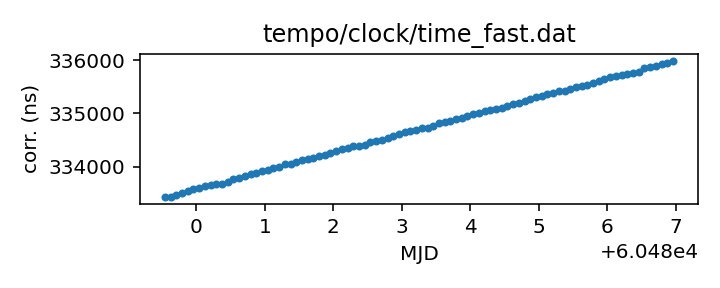
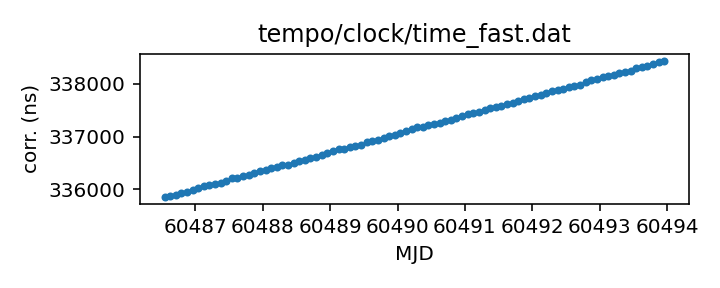
Routine gh-pages update from Github action Fri Jul  5 20:30:38 UTC 2024

diff --git a/status.md b/status.md
@@ -13,18 +13,18 @@ name of each clock file links to a page with more details.
 
 | Name | File | Corrections start | Corrections end | Last check date | Last check result 
 |:--- |:--- | --- | --- | --- |:--- 
-| [GPS to UTC](T2runtime/clock/gps2utc.clk.html) | `T2runtime/clock/gps2utc.clk` | 1993-01-01 MJD 48988.0 | 2024-04-29 MJD 60429.0 | 2024-07-04 | Unchanged 
-| [GPS to UTC (Combined Clock)](T2runtime/clock/gps2utc_cc.clk.html) | `T2runtime/clock/gps2utc_cc.clk` | 1993-01-01 MJD 48988.0 | 2024-04-29 MJD 60429.0 | 2024-07-04 | Unchanged 
-| [GPS to UTC (Corrected)](T2runtime/clock/gps2utc_c0p.clk.html) | `T2runtime/clock/gps2utc_c0p.clk` | 2010-12-29 MJD 55559.0 | 2024-04-29 MJD 60429.0 | 2024-07-04 | Unchanged 
-| [GBT](tempo/clock/time_gbt.dat.html) | `tempo/clock/time_gbt.dat` | 2000-12-31 MJD 51909.5 | 2024-05-18 MJD 60448.5 | 2024-07-04 | **Validation failed** 
+| [GPS to UTC](T2runtime/clock/gps2utc.clk.html) | `T2runtime/clock/gps2utc.clk` | 1993-01-01 MJD 48988.0 | 2024-04-29 MJD 60429.0 | 2024-07-05 | Unchanged 
+| [GPS to UTC (Combined Clock)](T2runtime/clock/gps2utc_cc.clk.html) | `T2runtime/clock/gps2utc_cc.clk` | 1993-01-01 MJD 48988.0 | 2024-04-29 MJD 60429.0 | 2024-07-05 | Unchanged 
+| [GPS to UTC (Corrected)](T2runtime/clock/gps2utc_c0p.clk.html) | `T2runtime/clock/gps2utc_c0p.clk` | 2010-12-29 MJD 55559.0 | 2024-04-29 MJD 60429.0 | 2024-07-05 | Unchanged 
+| [GBT](tempo/clock/time_gbt.dat.html) | `tempo/clock/time_gbt.dat` | 2000-12-31 MJD 51909.5 | 2024-05-18 MJD 60448.5 | 2024-07-05 | **Validation failed** 
 | [GBT (TEMPO2 converted from TEMPO)](T2runtime/clock/gbt2gps.clk.html) | `T2runtime/clock/gbt2gps.clk` | 2000-12-31 MJD 51909.5 | 2024-05-18 MJD 60448.5 | 2024-05-19 | Updated 
-| [Jodrell Bank](T2runtime/clock/jb2gps.clk.html) | `T2runtime/clock/jb2gps.clk` | 2006-10-13 MJD 54021.4 | 2023-12-04 MJD 60282.0 | 2024-06-28 | Unchanged 
-| [Jodrell Bank Roach](T2runtime/clock/jbroach2jb.clk.html) | `T2runtime/clock/jbroach2jb.clk` | 2006-10-13 MJD 54021.4 | 2018-03-20 MJD 58197.6 | 2024-06-28 | Unchanged 
-| [Jodrell Bank DFB](T2runtime/clock/jbdfb2jb.clk.html) | `T2runtime/clock/jbdfb2jb.clk` | 2006-10-13 MJD 54021.4 | 2017-05-11 MJD 57884.0 | 2024-06-28 | Unchanged 
-| [Meerkat (observatory)](T2runtime/clock/mk2utc_observatory.clk.html) | `T2runtime/clock/mk2utc_observatory.clk` | 2019-01-01 MJD 58484.0 | 2024-04-24 MJD 60425.0 | 2024-06-28 | **Failed to download** 
-| [Leap seconds](tempo/clock/leap.sec.html) | `tempo/clock/leap.sec` | 1972-07-01 MJD 41499.0 | 2017-01-01 MJD 57754.0 | 2024-07-04 | Unchanged 
-| [UT1 table](tempo/clock/ut1.dat.html) | `tempo/clock/ut1.dat` | 1973-01-02 MJD 41684.0 | 2025-07-05 MJD 60861.0 | 2024-07-04 | Unchanged 
-| [UT1 table](T2runtime/clock/ut1.dat.html) | `T2runtime/clock/ut1.dat` | 1973-01-02 MJD 41684.0 | 2025-07-05 MJD 60861.0 | 2024-07-04 | Unchanged 
+| [Jodrell Bank](T2runtime/clock/jb2gps.clk.html) | `T2runtime/clock/jb2gps.clk` | 2006-10-13 MJD 54021.4 | 2023-12-04 MJD 60282.0 | 2024-07-05 | Unchanged 
+| [Jodrell Bank Roach](T2runtime/clock/jbroach2jb.clk.html) | `T2runtime/clock/jbroach2jb.clk` | 2006-10-13 MJD 54021.4 | 2018-03-20 MJD 58197.6 | 2024-07-05 | Unchanged 
+| [Jodrell Bank DFB](T2runtime/clock/jbdfb2jb.clk.html) | `T2runtime/clock/jbdfb2jb.clk` | 2006-10-13 MJD 54021.4 | 2017-05-11 MJD 57884.0 | 2024-07-05 | Unchanged 
+| [Meerkat (observatory)](T2runtime/clock/mk2utc_observatory.clk.html) | `T2runtime/clock/mk2utc_observatory.clk` | 2019-01-01 MJD 58484.0 | 2024-04-24 MJD 60425.0 | 2024-07-05 | Unchanged 
+| [Leap seconds](tempo/clock/leap.sec.html) | `tempo/clock/leap.sec` | 1972-07-01 MJD 41499.0 | 2017-01-01 MJD 57754.0 | 2024-07-05 | Unchanged 
+| [UT1 table](tempo/clock/ut1.dat.html) | `tempo/clock/ut1.dat` | 1973-01-02 MJD 41684.0 | 2025-07-12 MJD 60868.0 | 2024-07-05 | Updated 
+| [UT1 table](T2runtime/clock/ut1.dat.html) | `T2runtime/clock/ut1.dat` | 1973-01-02 MJD 41684.0 | 2025-07-12 MJD 60868.0 | 2024-07-05 | Updated 
 
 
 
@@ -67,26 +67,26 @@ name of each clock file links to a page with more details.
 
 | Name | File | Corrections start | Corrections end | Last check date | Last check result 
 |:--- |:--- | --- | --- | --- |:--- 
-| [GPS to UTC (TEMPO2)](T2runtime/clock/gps2utc_tempo2.clk.html) | `T2runtime/clock/gps2utc_tempo2.clk` | 1996-03-27 MJD 50169.0 | 2022-10-27 MJD 59879.0 | 2024-06-28 | **Failed to download** 
-| [GBT (TEMPO2)](T2runtime/clock/gbt2gps_tempo2.clk.html) | `T2runtime/clock/gbt2gps_tempo2.clk` | 2000-12-31 MJD 51909.5 | 2020-02-25 MJD 58904.5 | 2024-06-28 | Unchanged 
-| [Jodrell Bank (TEMPO)](tempo/clock/time_jb.dat.html) | `tempo/clock/time_jb.dat` | 2006-10-13 MJD 54021.4 | 2019-05-13 MJD 58616.2 | 2024-06-28 | Unchanged 
-| [VLA](tempo/clock/time_vla.dat.html) | `tempo/clock/time_vla.dat` | 1990-10-27 MJD 48191.2 | 2021-03-07 MJD 59280.5 | 2024-06-28 | Unchanged 
-| [VLA (TEMPO2)](T2runtime/clock/vla2gps.clk.html) | `T2runtime/clock/vla2gps.clk` | 2015-02-01 MJD 57054.6 | 2021-03-07 MJD 59280.5 | 2024-06-28 | Unchanged 
-| [VLA to NIST](T2runtime/clock/vla2nist.clk.html) | `T2runtime/clock/vla2nist.clk` | 1990-10-27 MJD 48191.2 | 1993-11-13 MJD 49304.0 | 2024-06-28 | Unchanged 
-| [FAST](tempo/clock/time_fast.dat.html) | `tempo/clock/time_fast.dat` | 2017-07-27 MJD 57961.0 | 2024-06-25 MJD 60487.0 | 2024-06-28 | Updated 
-| [WSRT](T2runtime/clock/wsrt2gps.clk.html) | `T2runtime/clock/wsrt2gps.clk` | 1999-01-01 MJD 51179.5 | 2015-06-29 MJD 57202.1 | 2024-06-28 | Unchanged 
-| [WSRT (TEMPO)](tempo/clock/time_wsrt.dat.html) | `tempo/clock/time_wsrt.dat` | 1987-07-24 MJD 47000.0 | 2007-12-24 MJD 54458.0 | 2024-06-28 | **Validation failed** 
-| [Parkes](T2runtime/clock/pks2gps.clk.html) | `T2runtime/clock/pks2gps.clk` | 1858-11-17 MJD 0.0 | 2024-04-30 MJD 60430.1 | 2024-06-28 | Unchanged 
-| [Parkes (TEMPO)](tempo/clock/time_pks.dat.html) | `tempo/clock/time_pks.dat` | 1979-05-07 MJD 44000.0 | 2011-07-03 MJD 55745.8 | 2024-06-28 | **Validation failed** 
-| [SRT](T2runtime/clock/srt2gps.clk.html) | `T2runtime/clock/srt2gps.clk` | 2013-03-20 MJD 56371.0 | 2019-12-11 MJD 58828.0 | 2024-06-28 | Unchanged 
-| [Effelsberg](T2runtime/clock/eff2gps.clk.html) | `T2runtime/clock/eff2gps.clk` | 1993-11-29 MJD 49320.0 | 2015-06-22 MJD 57195.5 | 2024-06-28 | Unchanged 
-| [Effelsberg Asterix/PSRix](T2runtime/clock/effix2gps.clk.html) | `T2runtime/clock/effix2gps.clk` | 2011-01-01 MJD 55562.5 | 2021-03-21 MJD 59294.5 | 2024-06-28 | Unchanged 
-| [LEAP](T2runtime/clock/leap2effix.clk.html) | `T2runtime/clock/leap2effix.clk` | 2012-10-29 MJD 56230.0 | 2014-03-04 MJD 56720.0 | 2024-06-28 | Unchanged 
-| [NUPPI](tempo/clock/time_nuppi.dat.html) | `tempo/clock/time_nuppi.dat` | 2005-03-07 MJD 53436.0 | 2015-11-08 MJD 57334.6 | 2024-06-28 | Unchanged 
-| [Meerkat (TEMPO2)](T2runtime/clock/mk2utc.clk.html) | `T2runtime/clock/mk2utc.clk` | 2019-01-01 MJD 58484.0 | 2023-10-18 MJD 60235.9 | 2024-06-28 | Unchanged 
-| [MOST](T2runtime/clock/mo2gps.clk.html) | `T2runtime/clock/mo2gps.clk` | 2003-12-27 MJD 53000.0 | 2018-09-06 MJD 58367.0 | 2024-06-28 | Unchanged 
-| [Nancay to obspm](T2runtime/clock/ncyobs2obspm.clk.html) | `T2runtime/clock/ncyobs2obspm.clk` | 1988-05-18 MJD 47299.6 | 2023-10-27 MJD 60244.0 | 2024-06-28 | Unchanged 
-| [obspm](T2runtime/clock/obspm2gps.clk.html) | `T2runtime/clock/obspm2gps.clk` | 2003-12-01 MJD 52974.0 | 2023-10-27 MJD 60244.0 | 2024-06-28 | Unchanged 
+| [GPS to UTC (TEMPO2)](T2runtime/clock/gps2utc_tempo2.clk.html) | `T2runtime/clock/gps2utc_tempo2.clk` | 1996-03-27 MJD 50169.0 | 2022-10-27 MJD 59879.0 | 2024-07-05 | **Failed to download** 
+| [GBT (TEMPO2)](T2runtime/clock/gbt2gps_tempo2.clk.html) | `T2runtime/clock/gbt2gps_tempo2.clk` | 2000-12-31 MJD 51909.5 | 2020-02-25 MJD 58904.5 | 2024-07-05 | Unchanged 
+| [Jodrell Bank (TEMPO)](tempo/clock/time_jb.dat.html) | `tempo/clock/time_jb.dat` | 2006-10-13 MJD 54021.4 | 2019-05-13 MJD 58616.2 | 2024-07-05 | Unchanged 
+| [VLA](tempo/clock/time_vla.dat.html) | `tempo/clock/time_vla.dat` | 1990-10-27 MJD 48191.2 | 2021-03-07 MJD 59280.5 | 2024-07-05 | Unchanged 
+| [VLA (TEMPO2)](T2runtime/clock/vla2gps.clk.html) | `T2runtime/clock/vla2gps.clk` | 2015-02-01 MJD 57054.6 | 2021-03-07 MJD 59280.5 | 2024-07-05 | Unchanged 
+| [VLA to NIST](T2runtime/clock/vla2nist.clk.html) | `T2runtime/clock/vla2nist.clk` | 1990-10-27 MJD 48191.2 | 1993-11-13 MJD 49304.0 | 2024-07-05 | Unchanged 
+| [FAST](tempo/clock/time_fast.dat.html) | `tempo/clock/time_fast.dat` | 2017-07-27 MJD 57961.0 | 2024-07-02 MJD 60494.0 | 2024-07-05 | Updated 
+| [WSRT](T2runtime/clock/wsrt2gps.clk.html) | `T2runtime/clock/wsrt2gps.clk` | 1999-01-01 MJD 51179.5 | 2015-06-29 MJD 57202.1 | 2024-07-05 | Unchanged 
+| [WSRT (TEMPO)](tempo/clock/time_wsrt.dat.html) | `tempo/clock/time_wsrt.dat` | 1987-07-24 MJD 47000.0 | 2007-12-24 MJD 54458.0 | 2024-07-05 | **Validation failed** 
+| [Parkes](T2runtime/clock/pks2gps.clk.html) | `T2runtime/clock/pks2gps.clk` | 1858-11-17 MJD 0.0 | 2024-04-30 MJD 60430.1 | 2024-07-05 | Unchanged 
+| [Parkes (TEMPO)](tempo/clock/time_pks.dat.html) | `tempo/clock/time_pks.dat` | 1979-05-07 MJD 44000.0 | 2011-07-03 MJD 55745.8 | 2024-07-05 | **Validation failed** 
+| [SRT](T2runtime/clock/srt2gps.clk.html) | `T2runtime/clock/srt2gps.clk` | 2013-03-20 MJD 56371.0 | 2019-12-11 MJD 58828.0 | 2024-07-05 | Unchanged 
+| [Effelsberg](T2runtime/clock/eff2gps.clk.html) | `T2runtime/clock/eff2gps.clk` | 1993-11-29 MJD 49320.0 | 2015-06-22 MJD 57195.5 | 2024-07-05 | Unchanged 
+| [Effelsberg Asterix/PSRix](T2runtime/clock/effix2gps.clk.html) | `T2runtime/clock/effix2gps.clk` | 2011-01-01 MJD 55562.5 | 2021-03-21 MJD 59294.5 | 2024-07-05 | Unchanged 
+| [LEAP](T2runtime/clock/leap2effix.clk.html) | `T2runtime/clock/leap2effix.clk` | 2012-10-29 MJD 56230.0 | 2014-03-04 MJD 56720.0 | 2024-07-05 | Unchanged 
+| [NUPPI](tempo/clock/time_nuppi.dat.html) | `tempo/clock/time_nuppi.dat` | 2005-03-07 MJD 53436.0 | 2015-11-08 MJD 57334.6 | 2024-07-05 | Unchanged 
+| [Meerkat (TEMPO2)](T2runtime/clock/mk2utc.clk.html) | `T2runtime/clock/mk2utc.clk` | 2019-01-01 MJD 58484.0 | 2023-10-18 MJD 60235.9 | 2024-07-05 | Unchanged 
+| [MOST](T2runtime/clock/mo2gps.clk.html) | `T2runtime/clock/mo2gps.clk` | 2003-12-27 MJD 53000.0 | 2018-09-06 MJD 58367.0 | 2024-07-05 | Unchanged 
+| [Nancay to obspm](T2runtime/clock/ncyobs2obspm.clk.html) | `T2runtime/clock/ncyobs2obspm.clk` | 1988-05-18 MJD 47299.6 | 2023-10-27 MJD 60244.0 | 2024-07-05 | Unchanged 
+| [obspm](T2runtime/clock/obspm2gps.clk.html) | `T2runtime/clock/obspm2gps.clk` | 2003-12-01 MJD 52974.0 | 2023-10-27 MJD 60244.0 | 2024-07-05 | Unchanged 
 
 
 ### Further information:

diff --git a/tempo/clock/time_pks.dat.md b/tempo/clock/time_pks.dat.md
@@ -20,12 +20,11 @@ telescopes in the same file, distinguished only by observatory code.
 | Clock file start | 1979-05-07 MJD 44000.0 |
 | Clock file end | 2011-07-03 MJD 55745.8 |
 | Update interval (days) | 7 |
-| Last update attempt | 2024-06-28 |
+| Last update attempt | 2024-07-05 |
 | Last update result | Validation failed |
 
 Log entries from the last few update attempts:
 ```
-2024-04-11 20:29:34.676 - Validation failed: Unable to read new version of tempo/clock/time_pks.dat: Clock file /tmp/astropy-download-1801-4xgnkiau appears to be out of order: 49959.0 > 49958.0
 2024-04-18 20:29:38.673 - Validation failed: Unable to read new version of tempo/clock/time_pks.dat: Clock file /tmp/astropy-download-1796-c9s0ts7i appears to be out of order: 49959.0 > 49958.0
 2024-05-10 20:29:42.293 - Validation failed: Unable to read new version of tempo/clock/time_pks.dat: Clock file /tmp/astropy-download-1806-pnu0rn0y appears to be out of order: 49959.0 > 49958.0
 2024-05-17 20:29:45.220 - Validation failed: Unable to read new version of tempo/clock/time_pks.dat: Clock file /tmp/astropy-download-1787-teivf2pi appears to be out of order: 49959.0 > 49958.0
@@ -35,6 +34,7 @@ Log entries from the last few update attempts:
 2024-06-14 20:29:51.890 - Validation failed: Unable to read new version of tempo/clock/time_pks.dat: Clock file /tmp/astropy-download-1801-tisulijr appears to be out of order: 49959.0 > 49958.0
 2024-06-21 20:29:55.211 - Validation failed: Unable to read new version of tempo/clock/time_pks.dat: Clock file /tmp/astropy-download-1818-a0_m0tm6 appears to be out of order: 49959.0 > 49958.0
 2024-06-28 20:29:43.204 - Validation failed: Unable to read new version of tempo/clock/time_pks.dat: Clock file /tmp/astropy-download-1891-89y18t2_ appears to be out of order: 49959.0 > 49958.0
+2024-07-05 20:29:58.943 - Validation failed: Unable to read new version of tempo/clock/time_pks.dat: Clock file /tmp/astropy-download-1810-trqtm1kr appears to be out of order: 49959.0 > 49958.0
 ```
 [Full log](https://raw.githubusercontent.com/ipta/pulsar-clock-corrections/main/log/tempo/clock/time_pks.dat.log)
 

diff --git a/tempo/clock/time_wsrt.dat.md b/tempo/clock/time_wsrt.dat.md
@@ -20,12 +20,11 @@ should be the same information.
 | Clock file start | 1987-07-24 MJD 47000.0 |
 | Clock file end | 2007-12-24 MJD 54458.0 |
 | Update interval (days) | 7 |
-| Last update attempt | 2024-06-28 |
+| Last update attempt | 2024-07-05 |
 | Last update result | Validation failed |
 
 Log entries from the last few update attempts:
 ```
-2024-04-11 20:29:29.782 - Validation failed: Unable to read new version of tempo/clock/time_wsrt.dat: Clock file /tmp/astropy-download-1801-eyxtozmn appears to be out of order: 53000.05 > 53000.0
 2024-04-18 20:29:33.818 - Validation failed: Unable to read new version of tempo/clock/time_wsrt.dat: Clock file /tmp/astropy-download-1796-uswo2pn9 appears to be out of order: 53000.05 > 53000.0
 2024-05-10 20:29:38.436 - Validation failed: Unable to read new version of tempo/clock/time_wsrt.dat: Clock file /tmp/astropy-download-1806-0gvmq99j appears to be out of order: 53000.05 > 53000.0
 2024-05-17 20:29:41.596 - Validation failed: Unable to read new version of tempo/clock/time_wsrt.dat: Clock file /tmp/astropy-download-1787-h7p7w40s appears to be out of order: 53000.05 > 53000.0
@@ -35,6 +34,7 @@ Log entries from the last few update attempts:
 2024-06-14 20:29:48.546 - Validation failed: Unable to read new version of tempo/clock/time_wsrt.dat: Clock file /tmp/astropy-download-1801-gxdcwqox appears to be out of order: 53000.05 > 53000.0
 2024-06-21 20:29:50.513 - Validation failed: Unable to read new version of tempo/clock/time_wsrt.dat: Clock file /tmp/astropy-download-1818-gztup1ud appears to be out of order: 53000.05 > 53000.0
 2024-06-28 20:29:38.470 - Validation failed: Unable to read new version of tempo/clock/time_wsrt.dat: Clock file /tmp/astropy-download-1891-katqx_gz appears to be out of order: 53000.05 > 53000.0
+2024-07-05 20:29:55.289 - Validation failed: Unable to read new version of tempo/clock/time_wsrt.dat: Clock file /tmp/astropy-download-1810-6x_oo0y2 appears to be out of order: 53000.05 > 53000.0
 ```
 [Full log](https://raw.githubusercontent.com/ipta/pulsar-clock-corrections/main/log/tempo/clock/time_wsrt.dat.log)
 

diff --git a/tempo/clock/time_gbt.dat.md b/tempo/clock/time_gbt.dat.md
@@ -33,12 +33,11 @@ If questions arise, contact Ryan S. Lynch <rlynch@nrao.edu>.
 | Clock file start | 2000-12-31 MJD 51909.5 |
 | Clock file end | 2024-05-18 MJD 60448.5 |
 | Update interval (days) | 1 |
-| Last update attempt | 2024-07-04 |
+| Last update attempt | 2024-07-05 |
 | Last update result | Validation failed |
 
 Log entries from the last few update attempts:
 ```
-2024-06-25 20:29:28.281 - Validation failed: New version of tempo/clock/time_gbt.dat clock corrections differ from old version where they overlap in 11 places
 2024-06-26 20:31:39.903 - Validation failed: New version of tempo/clock/time_gbt.dat clock corrections differ from old version where they overlap in 11 places
 2024-06-27 20:29:38.289 - Validation failed: New version of tempo/clock/time_gbt.dat clock corrections differ from old version where they overlap in 11 places
 2024-06-28 20:29:34.510 - Validation failed: New version of tempo/clock/time_gbt.dat clock corrections differ from old version where they overlap in 11 places
@@ -48,6 +47,7 @@ Log entries from the last few update attempts:
 2024-07-02 20:32:21.528 - Validation failed: New version of tempo/clock/time_gbt.dat clock corrections differ from old version where they overlap in 11 places
 2024-07-03 20:29:25.526 - Validation failed: New version of tempo/clock/time_gbt.dat clock corrections differ from old version where they overlap in 11 places
 2024-07-04 20:29:50.807 - Validation failed: New version of tempo/clock/time_gbt.dat clock corrections differ from old version where they overlap in 11 places
+2024-07-05 20:29:50.516 - Validation failed: New version of tempo/clock/time_gbt.dat clock corrections differ from old version where they overlap in 11 places
 ```
 [Full log](https://raw.githubusercontent.com/ipta/pulsar-clock-corrections/main/log/tempo/clock/time_gbt.dat.log)
 

diff --git a/T2runtime/clock/gps2utc_tempo2.clk.md b/T2runtime/clock/gps2utc_tempo2.clk.md
@@ -27,12 +27,11 @@ are from the column C0').
 | Clock file start | 1996-03-27 MJD 50169.0 |
 | Clock file end | 2022-10-27 MJD 59879.0 |
 | Update interval (days) | 7 |
-| Last update attempt | 2024-06-28 |
+| Last update attempt | 2024-07-05 |
 | Last update result | Failed to download |
 
 Log entries from the last few update attempts:
 ```
-2024-04-11 20:29:07.692 - Unchanged
 2024-04-18 20:29:11.360 - Unchanged
 2024-05-10 20:29:02.475 - Failed to download: HTTP Error 404: Not Found
 2024-05-17 20:29:05.507 - Failed to download: HTTP Error 404: Not Found
@@ -42,6 +41,7 @@ Log entries from the last few update attempts:
 2024-06-14 20:29:11.087 - Failed to download: HTTP Error 404: Not Found
 2024-06-21 20:29:27.909 - Failed to download: HTTP Error 404: Not Found
 2024-06-28 20:29:11.138 - Failed to download: HTTP Error 404: Not Found
+2024-07-05 20:29:14.464 - Failed to download: HTTP Error 404: Not Found
 ```
 [Full log](https://raw.githubusercontent.com/ipta/pulsar-clock-corrections/main/log/T2runtime/clock/gps2utc_tempo2.clk.log)
 

diff --git a/T2runtime/clock/mk2utc_observatory.clk.md b/T2runtime/clock/mk2utc_observatory.clk.md
@@ -21,12 +21,11 @@ If questions arise, contact Ryan Shannon <rshannon@swin.edu.au>
 | Clock file start | 2019-01-01 MJD 58484.0 |
 | Clock file end | 2024-04-24 MJD 60425.0 |
 | Update interval (days) | 7 |
-| Last update attempt | 2024-06-28 |
-| Last update result | Failed to download |
+| Last update attempt | 2024-07-05 |
+| Last update result | Unchanged |
 
 Log entries from the last few update attempts:
 ```
-2024-04-11 20:29:40.709 - Unchanged
 2024-04-18 20:29:46.133 - Updated
 2024-05-10 20:29:48.819 - Updated
 2024-05-17 20:29:50.578 - Unchanged
@@ -36,6 +35,7 @@ Log entries from the last few update attempts:
 2024-06-14 20:29:57.559 - Unchanged
 2024-06-21 20:29:58.849 - Unchanged
 2024-06-28 20:29:55.029 - Failed to download: <urlopen error _ssl.c:990: The handshake operation timed out>
+2024-07-05 20:30:07.740 - Unchanged
 ```
 [Full log](https://raw.githubusercontent.com/ipta/pulsar-clock-corrections/main/log/T2runtime/clock/mk2utc_observatory.clk.log)
 

diff --git a/T2runtime/clock/ut1.dat.md b/T2runtime/clock/ut1.dat.md
@@ -28,14 +28,13 @@ If there are any questions, contact Anne Archibald
 | File | `T2runtime/clock/ut1.dat` |
 | Authority | observatory |
 | File start | 1973-01-02 MJD 41684.0 |
-| File end | 2025-07-05 MJD 60861.0 |
+| File end | 2025-07-12 MJD 60868.0 |
 | Update interval (days) | 0 |
-| Last update attempt | 2024-07-04 |
-| Last update result | Unchanged |
+| Last update attempt | 2024-07-05 |
+| Last update result | Updated |
 
 Log entries from the last few update attempts:
 ```
-2024-06-25 20:29:37.732 - Unchanged
 2024-06-26 20:31:48.395 - Unchanged
 2024-06-27 20:29:47.772 - Updated
 2024-06-28 20:30:05.632 - Unchanged
@@ -45,5 +44,6 @@ Log entries from the last few update attempts:
 2024-07-02 20:32:30.492 - Unchanged
 2024-07-03 20:29:33.084 - Unchanged
 2024-07-04 20:30:03.546 - Unchanged
+2024-07-05 20:30:22.227 - Updated
 ```
 [Full log](https://raw.githubusercontent.com/ipta/pulsar-clock-corrections/main/log/T2runtime/clock/ut1.dat.log)

diff --git a/tempo/clock/ut1.dat.md b/tempo/clock/ut1.dat.md
@@ -28,14 +28,13 @@ If there are any questions, contact Anne Archibald
 | File | `tempo/clock/ut1.dat` |
 | Authority | observatory |
 | File start | 1973-01-02 MJD 41684.0 |
-| File end | 2025-07-05 MJD 60861.0 |
+| File end | 2025-07-12 MJD 60868.0 |
 | Update interval (days) | 0 |
-| Last update attempt | 2024-07-04 |
-| Last update result | Unchanged |
+| Last update attempt | 2024-07-05 |
+| Last update result | Updated |
 
 Log entries from the last few update attempts:
 ```
-2024-06-25 20:29:37.675 - Unchanged
 2024-06-26 20:31:48.336 - Unchanged
 2024-06-27 20:29:47.712 - Updated
 2024-06-28 20:30:05.575 - Unchanged
@@ -45,5 +44,6 @@ Log entries from the last few update attempts:
 2024-07-02 20:32:30.434 - Unchanged
 2024-07-03 20:29:33.024 - Unchanged
 2024-07-04 20:30:03.488 - Unchanged
+2024-07-05 20:30:22.167 - Updated
 ```
 [Full log](https://raw.githubusercontent.com/ipta/pulsar-clock-corrections/main/log/tempo/clock/ut1.dat.log)

diff --git a/tempo/clock/time_fast.dat.md b/tempo/clock/time_fast.dat.md
@@ -14,14 +14,13 @@ This file is pulled from the FAST_ClockFile repository.
 | Format | tempo |
 | Bogus last correction | False |
 | Clock file start | 2017-07-27 MJD 57961.0 |
-| Clock file end | 2024-06-25 MJD 60487.0 |
+| Clock file end | 2024-07-02 MJD 60494.0 |
 | Update interval (days) | 7 |
-| Last update attempt | 2024-06-28 |
+| Last update attempt | 2024-07-05 |
 | Last update result | Updated |
 
 Log entries from the last few update attempts:
 ```
-2024-04-11 20:29:28.783 - Updated
 2024-04-18 20:29:33.141 - Updated
 2024-05-10 20:29:37.535 - Updated
 2024-05-17 20:29:40.999 - Updated
@@ -31,6 +30,7 @@ Log entries from the last few update attempts:
 2024-06-14 20:29:47.904 - Updated
 2024-06-21 20:29:49.947 - Updated
 2024-06-28 20:29:37.764 - Updated
+2024-07-05 20:29:54.615 - Updated
 ```
 [Full log](https://raw.githubusercontent.com/ipta/pulsar-clock-corrections/main/log/tempo/clock/time_fast.dat.log)
 

diff --git a/T2runtime/clock/gps2utc_c0p.clk.md b/T2runtime/clock/gps2utc_c0p.clk.md
@@ -30,12 +30,11 @@ about the BIPM's published corrections, contact <tai@bipm.org>.
 | Clock file start | 2010-12-29 MJD 55559.0 |
 | Clock file end | 2024-04-29 MJD 60429.0 |
 | Update interval (days) | 1 |
-| Last update attempt | 2024-07-04 |
+| Last update attempt | 2024-07-05 |
 | Last update result | Unchanged |
 
 Log entries from the last few update attempts:
 ```
-2024-06-25 20:29:27.858 - Unchanged
 2024-06-26 20:31:39.367 - Unchanged
 2024-06-27 20:29:37.599 - Unchanged
 2024-06-28 20:29:34.033 - Unchanged
@@ -45,6 +44,7 @@ Log entries from the last few update attempts:
 2024-07-02 20:32:21.081 - Unchanged
 2024-07-03 20:29:25.118 - Unchanged
 2024-07-04 20:29:49.812 - Unchanged
+2024-07-05 20:29:49.662 - Unchanged
 ```
 [Full log](https://raw.githubusercontent.com/ipta/pulsar-clock-corrections/main/log/T2runtime/clock/gps2utc_c0p.clk.log)
 

diff --git a/T2runtime/clock/gps2utc_cc.clk.md b/T2runtime/clock/gps2utc_cc.clk.md
@@ -29,12 +29,11 @@ about the BIPM's published corrections, contact <tai@bipm.org>.
 | Clock file start | 1993-01-01 MJD 48988.0 |
 | Clock file end | 2024-04-29 MJD 60429.0 |
 | Update interval (days) | 1 |
-| Last update attempt | 2024-07-04 |
+| Last update attempt | 2024-07-05 |
 | Last update result | Unchanged |
 
 Log entries from the last few update attempts:
 ```
-2024-06-25 20:29:27.846 - Unchanged
 2024-06-26 20:31:39.356 - Unchanged
 2024-06-27 20:29:37.588 - Unchanged
 2024-06-28 20:29:34.022 - Unchanged
@@ -44,6 +43,7 @@ Log entries from the last few update attempts:
 2024-07-02 20:32:21.068 - Unchanged
 2024-07-03 20:29:25.107 - Unchanged
 2024-07-04 20:29:49.801 - Unchanged
+2024-07-05 20:29:49.650 - Unchanged
 ```
 [Full log](https://raw.githubusercontent.com/ipta/pulsar-clock-corrections/main/log/T2runtime/clock/gps2utc_cc.clk.log)
 

diff --git a/T2runtime/clock/gps2utc.clk.md b/T2runtime/clock/gps2utc.clk.md
@@ -32,12 +32,11 @@ about the BIPM's published corrections, contact <tai@bipm.org>.
 | Clock file start | 1993-01-01 MJD 48988.0 |
 | Clock file end | 2024-04-29 MJD 60429.0 |
 | Update interval (days) | 1 |
-| Last update attempt | 2024-07-04 |
+| Last update attempt | 2024-07-05 |
 | Last update result | Unchanged |
 
 Log entries from the last few update attempts:
 ```
-2024-06-25 20:29:27.818 - Unchanged
 2024-06-26 20:31:39.327 - Unchanged
 2024-06-27 20:29:37.560 - Unchanged
 2024-06-28 20:29:33.983 - Unchanged
@@ -47,6 +46,7 @@ Log entries from the last few update attempts:
 2024-07-02 20:32:21.041 - Unchanged
 2024-07-03 20:29:25.078 - Unchanged
 2024-07-04 20:29:49.774 - Unchanged
+2024-07-05 20:29:49.623 - Unchanged
 ```
 [Full log](https://raw.githubusercontent.com/ipta/pulsar-clock-corrections/main/log/T2runtime/clock/gps2utc.clk.log)
 
